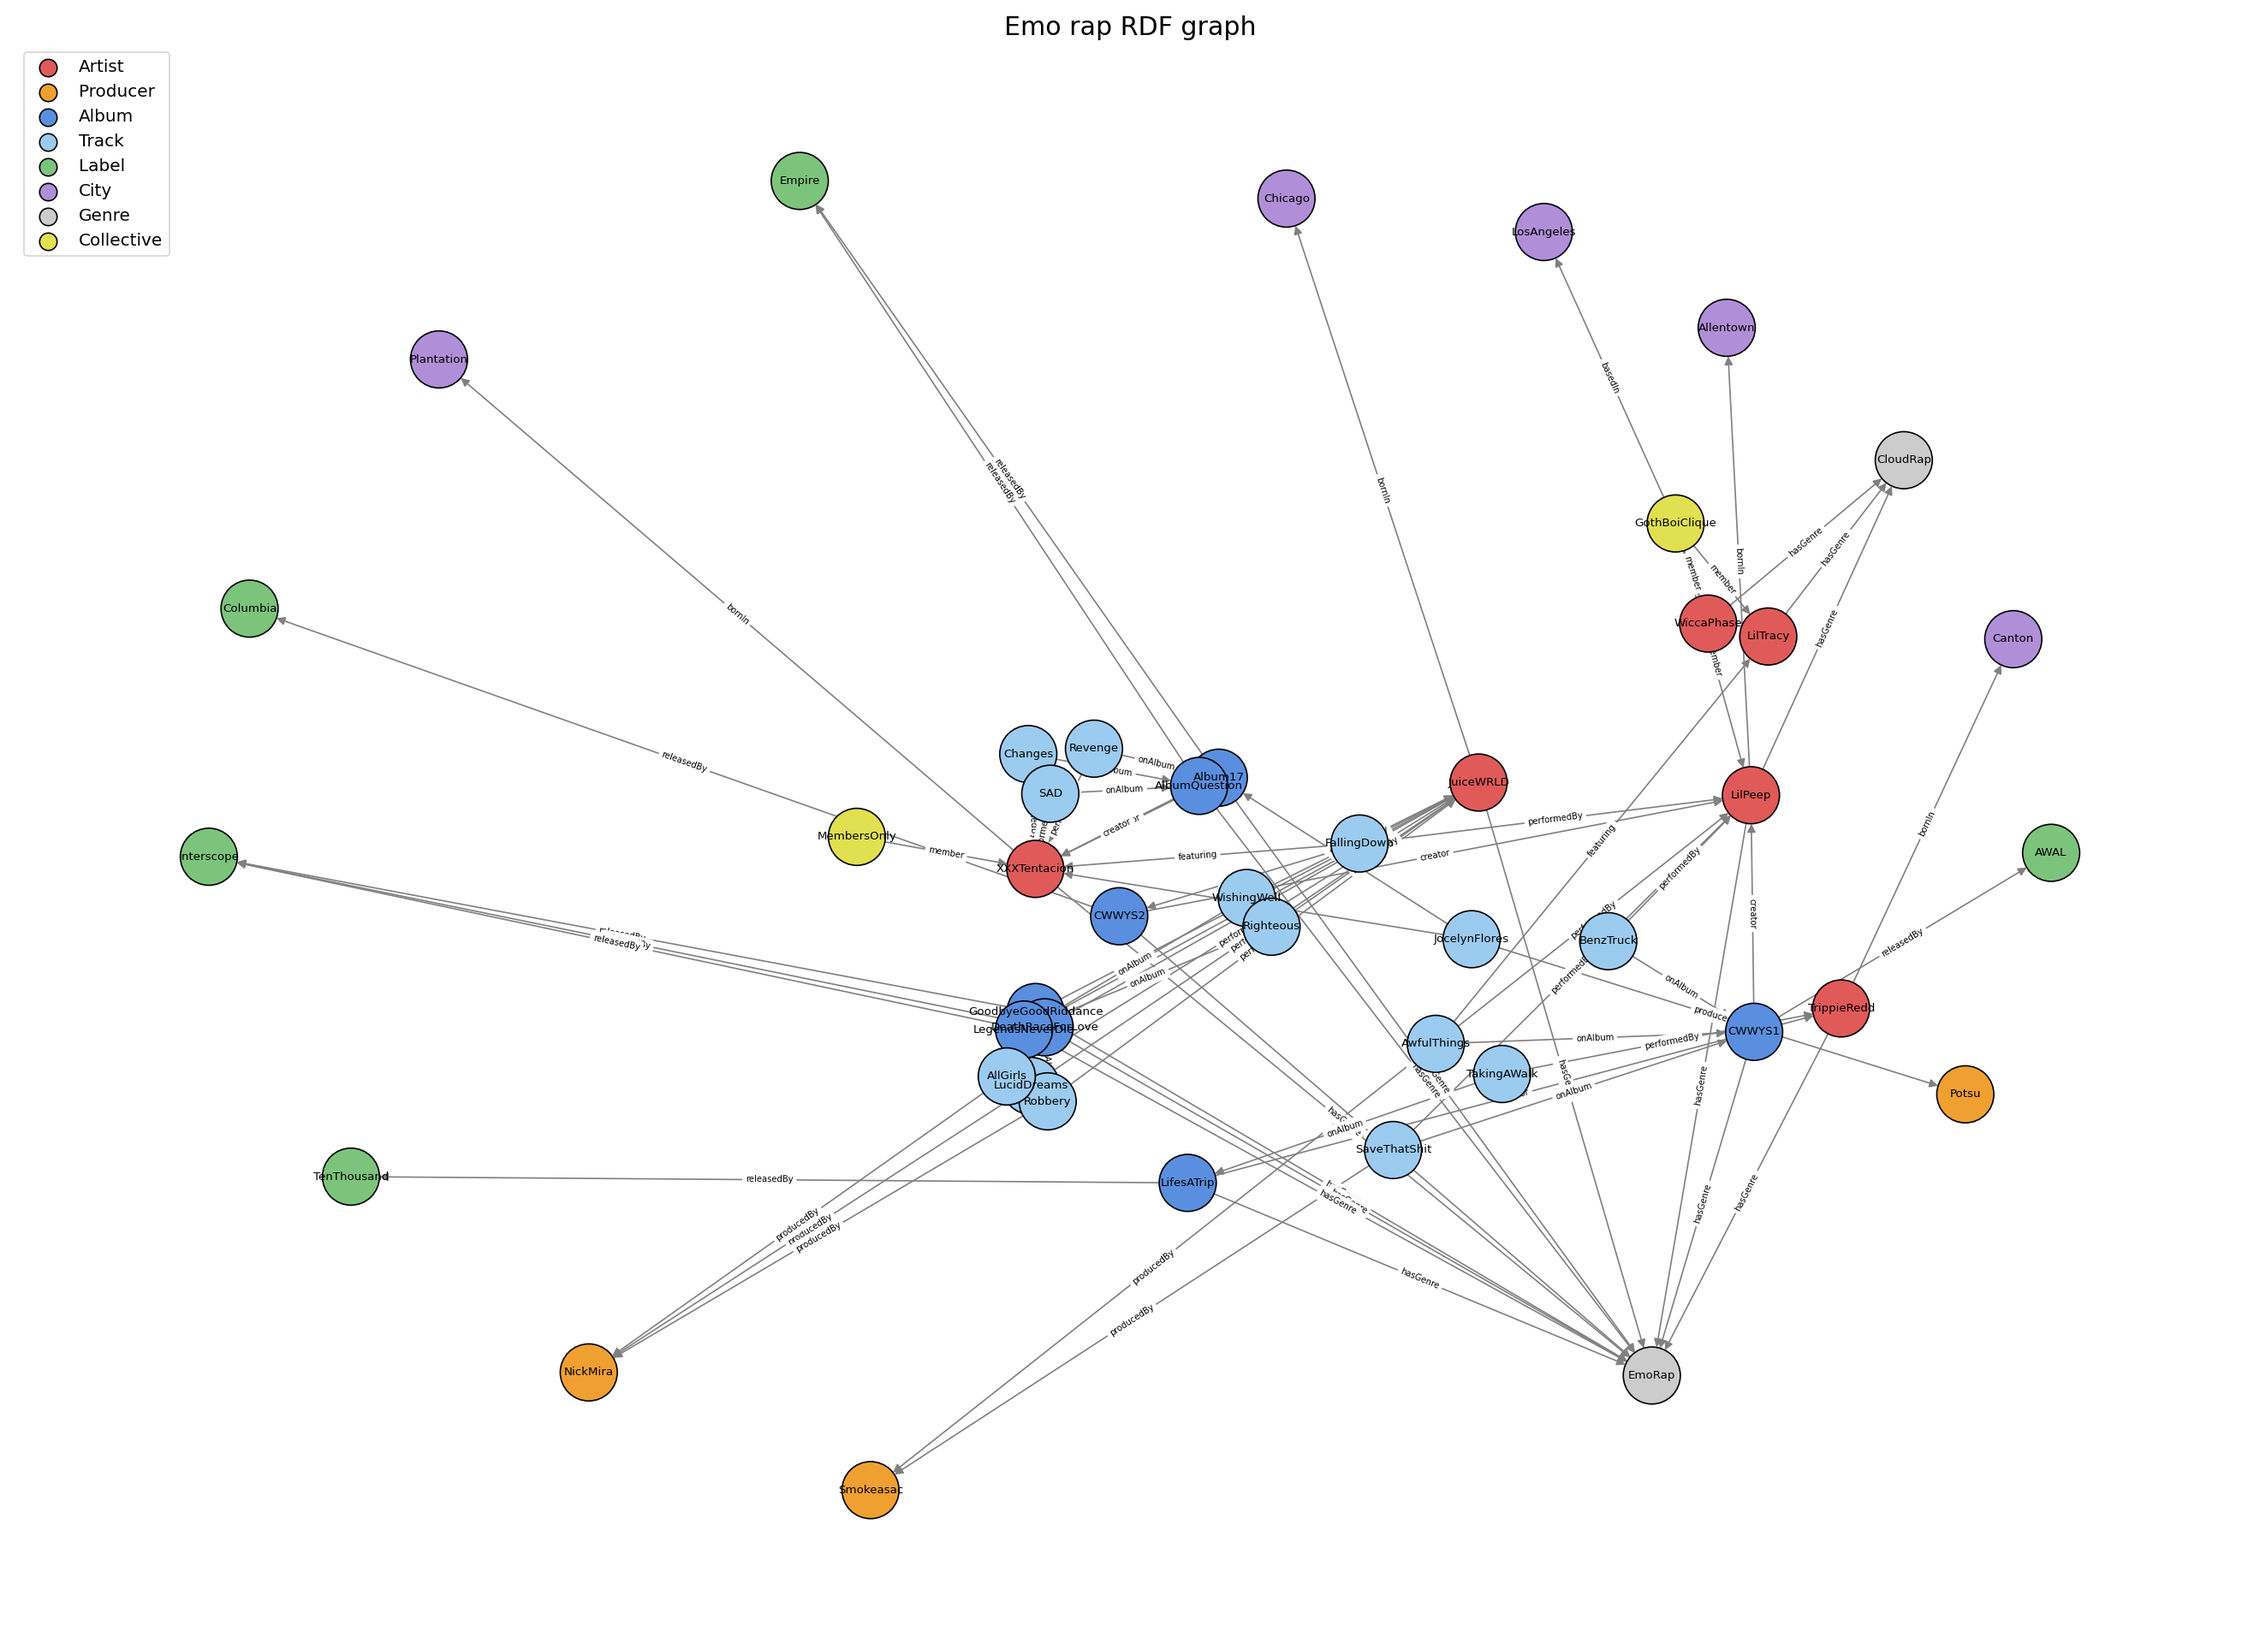
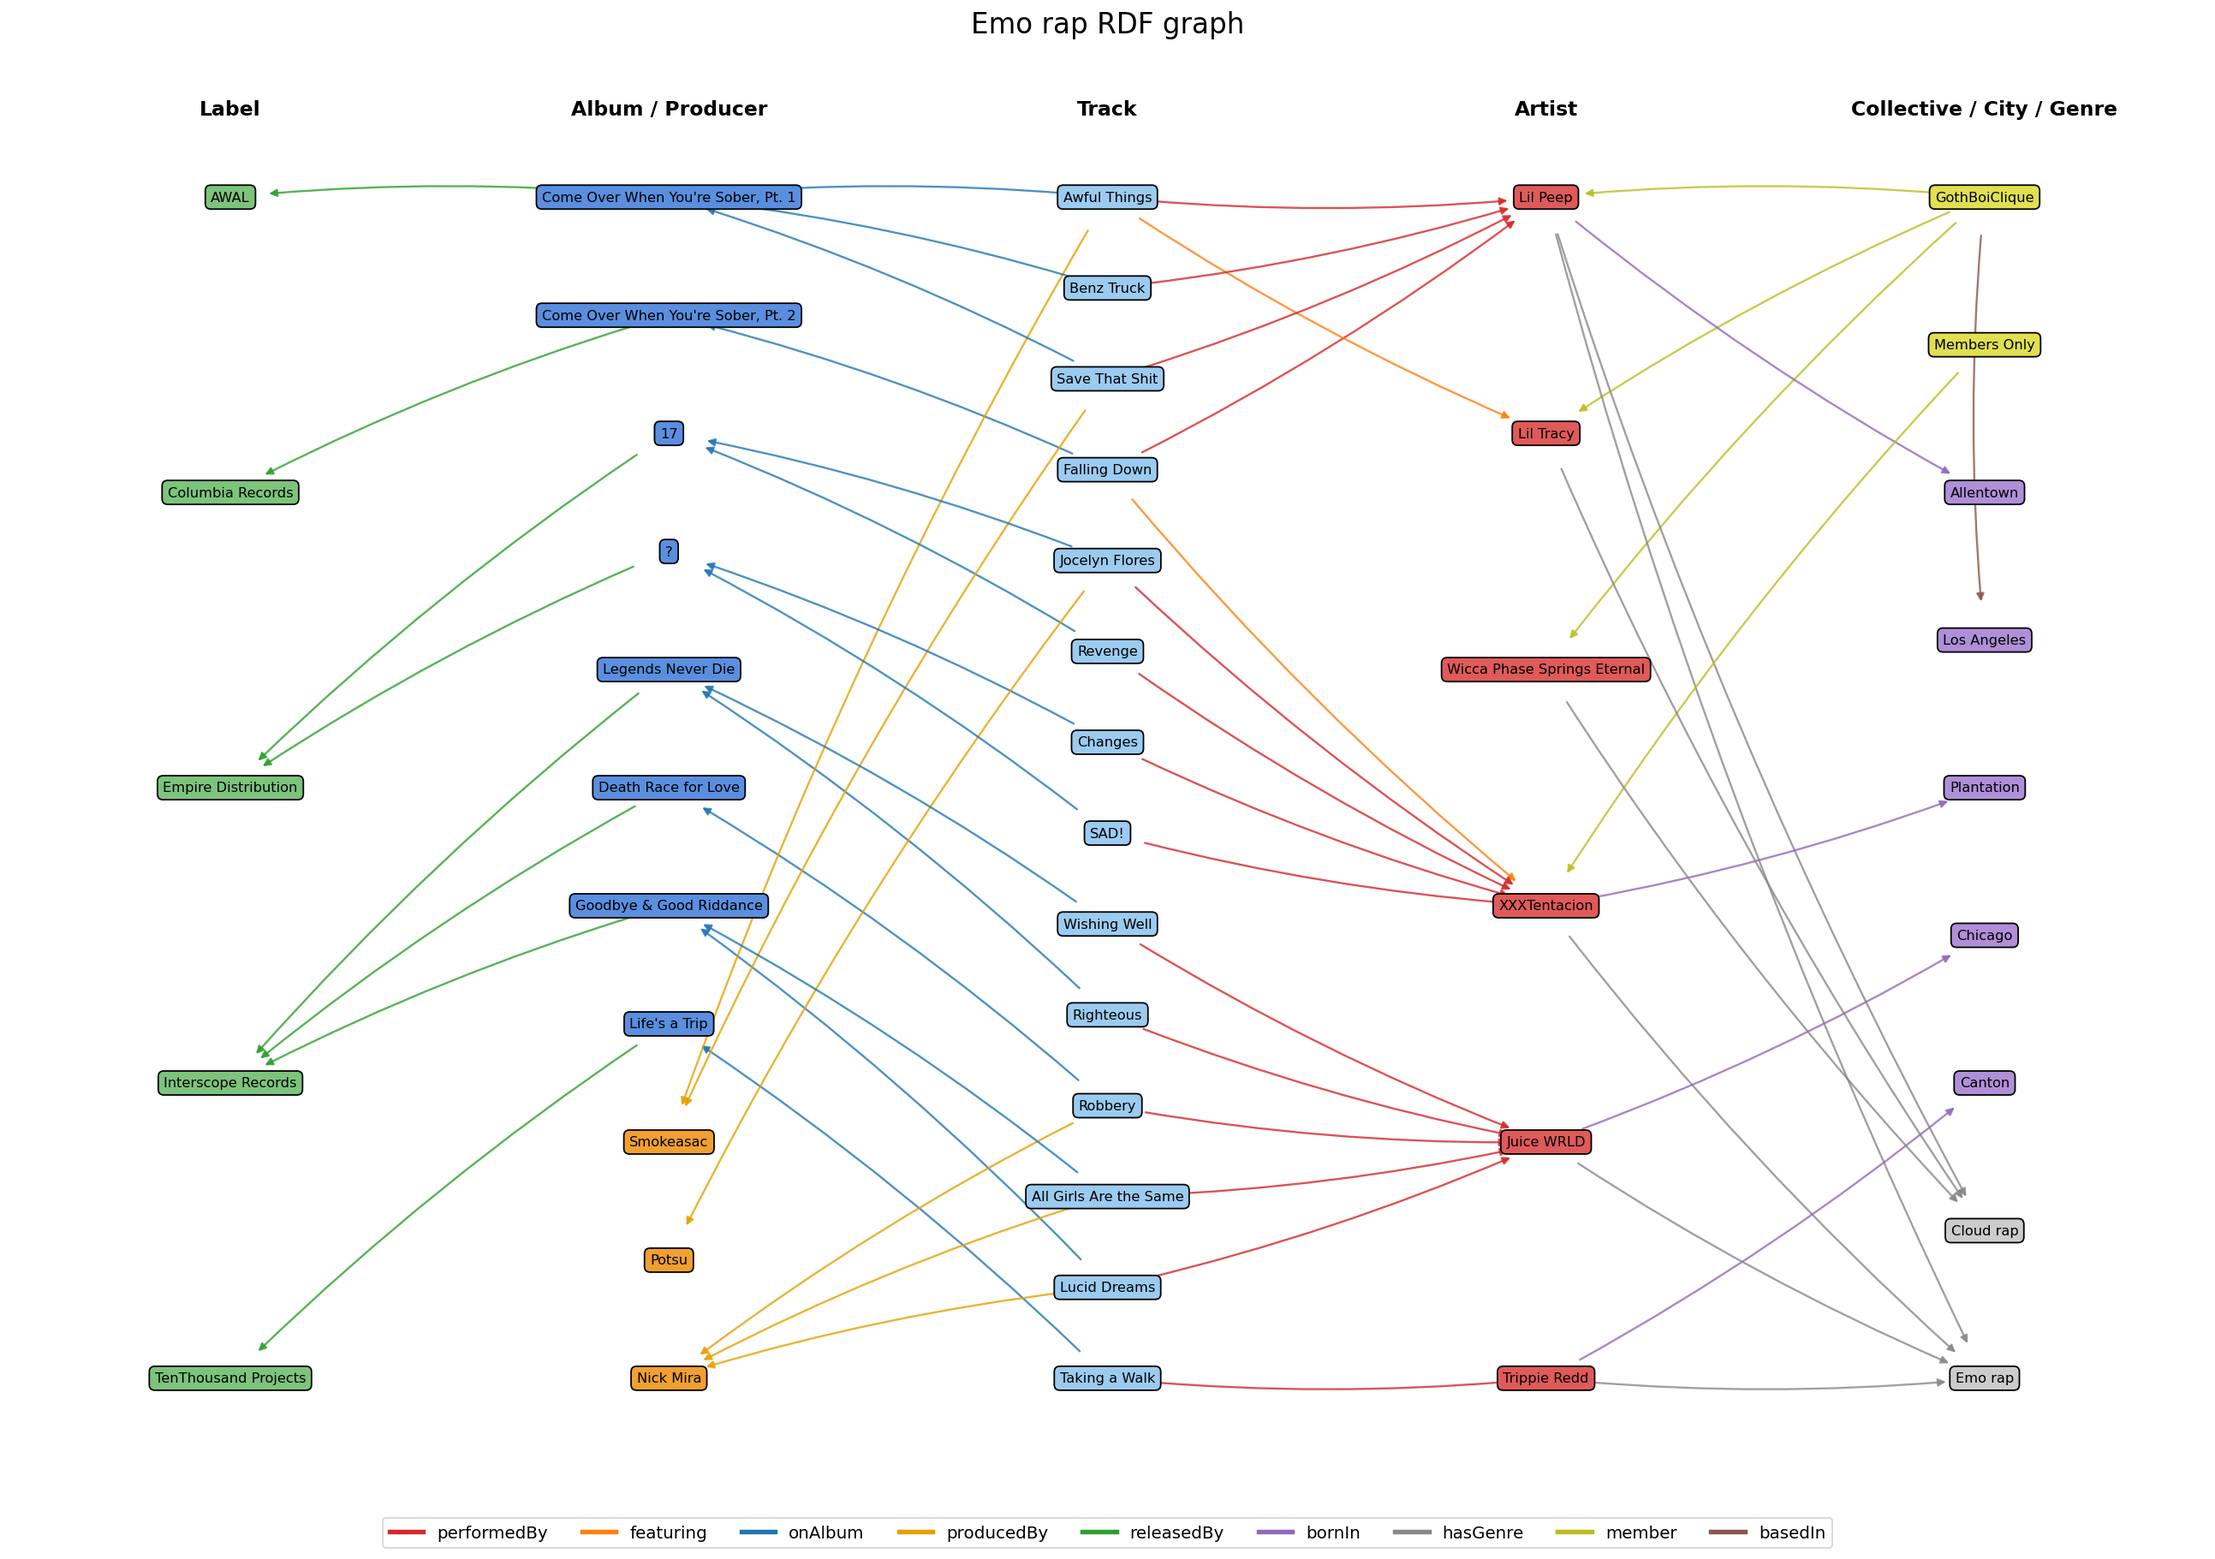
fixed graph

diff --git a/visualize.py b/visualize.py
@@ -1,54 +1,117 @@
 import networkx as nx
 import matplotlib.pyplot as plt
-from rdflib import Graph, Namespace, URIRef
-from rdflib.namespace import RDF, RDFS
+from matplotlib.lines import Line2D
+from rdflib import Graph, Namespace
+from rdflib.namespace import RDF, RDFS, FOAF, DCTERMS
 
 EX = Namespace("http://example.org/emorap/")
 
 g = Graph()
 g.parse("emo_rap_edited.ttl")
 
-colors = {
-    EX.Artist: "#e05a5a",
-    EX.Producer: "#f0a030",
-    EX.Album: "#5a8fe0",
-    EX.Track: "#9ccbf0",
+node_colors = {
     EX.Label: "#7cc47c",
+    EX.Album: "#5a8fe0",
+    EX.Producer: "#f0a030",
+    EX.Track: "#9ccbf0",
+    EX.Artist: "#e05a5a",
+    EX.Collective: "#e0e050",
     EX.City: "#b08fd8",
     EX.Genre: "#cccccc",
-    EX.Collective: "#e0e050",
 }
 
+# колір ребра = тип зв'язку (замість підписів на кожному ребрі)
+edge_colors = {
+    EX.performedBy: "#d62728",
+    EX.featuring: "#ff7f0e",
+    EX.onAlbum: "#1f77b4",
+    EX.producedBy: "#e6a000",
+    EX.releasedBy: "#2ca02c",
+    EX.bornIn: "#9467bd",
+    EX.hasGenre: "#888888",
+    FOAF.member: "#bcbd22",
+    EX.basedIn: "#8c564b",
+}
 
-def short(u):
-    return g.namespace_manager.normalizeUri(u).split(":")[-1]
+# колонки: x для кожного типу
+columns = {
+    EX.Label: 0, EX.Album: 1, EX.Producer: 1, EX.Track: 2,
+    EX.Artist: 3, EX.Collective: 4, EX.City: 4, EX.Genre: 4,
+}
 
+artist_order = ["LilPeep", "LilTracy", "WiccaPhase", "XXXTentacion", "JuiceWRLD", "TrippieRedd"]
+
+
+def name(u):
+    for p in (FOAF.name, DCTERMS.title, RDFS.label):
+        v = g.value(u, p)
+        if v:
+            return str(v)
+    return u.split("/")[-1]
+
+
+def artist_idx(u):
+    return artist_order.index(u.split("/")[-1])
+
+
+def nodes_of(cls):
+    return list(g.subjects(RDF.type, cls))
+
+
+# сортуємо вузли, щоб ребра менше перетинались
+artists = sorted(nodes_of(EX.Artist), key=artist_idx)
+albums = sorted(nodes_of(EX.Album), key=lambda a: (artist_idx(g.value(a, DCTERMS.creator)), str(g.value(a, EX.releasedBy))))
+tracks = sorted(nodes_of(EX.Track), key=lambda t: albums.index(g.value(t, EX.onAlbum)))
+labels = sorted(nodes_of(EX.Label), key=lambda l: min(albums.index(a) for a in g.subjects(EX.releasedBy, l)))
+producers = sorted(nodes_of(EX.Producer), key=lambda p: min(tracks.index(t) for t in g.subjects(EX.producedBy, p)))
+collectives = nodes_of(EX.Collective)
+cities = sorted(nodes_of(EX.City), key=lambda c: min([artist_idx(a) for a in g.subjects(EX.bornIn, c)] or [0]))
+genres = nodes_of(EX.Genre)
+
+col_nodes = {
+    0: labels,
+    1: albums + producers,
+    2: tracks,
+    3: artists,
+    4: collectives + cities + genres,
+}
+
+pos = {}
+for x, nodes in col_nodes.items():
+    n = len(nodes)
+    for i, u in enumerate(nodes):
+        pos[u] = (x * 3, 1 - i / max(n - 1, 1))  # рівномірно по висоті
 
 G = nx.DiGraph()
 for s, p, o in g:
-    # тільки зв'язки між сутностями, без rdf:type, літералів і схеми
-    if not isinstance(o, URIRef) or p in (RDF.type, RDFS.subClassOf, RDFS.domain, RDFS.range, RDFS.subPropertyOf):
-        continue
-    G.add_edge(short(s), short(o), label=short(p))
+    # creator і жанр альбомів не малюємо - вони дублюють зв'язки через треки
+    if p in edge_colors and s in pos and o in pos:
+        if p == EX.hasGenre and (s, RDF.type, EX.Album) in g:
+            continue
+        G.add_edge(s, o, color=edge_colors[p])
 
-node_colors = []
-for n in G.nodes:
-    t = g.value(EX[n], RDF.type)
-    node_colors.append(colors.get(t, "white"))
+plt.figure(figsize=(20, 14))
+nx.draw_networkx_edges(
+    G, pos, edge_color=[d["color"] for _, _, d in G.edges(data=True)],
+    arrows=True, arrowsize=10, width=1.3, alpha=0.8,
+    connectionstyle="arc3,rad=0.05", node_size=2500,
+)
+for u, (x, y) in pos.items():
+    cls = g.value(u, RDF.type)
+    plt.text(x, y, name(u), ha="center", va="center", fontsize=9,
+             bbox=dict(boxstyle="round,pad=0.4", fc=node_colors[cls], ec="black"))
 
-plt.figure(figsize=(22, 16))
-pos = nx.spring_layout(G, k=2.2, seed=42, iterations=500)
-nx.draw_networkx_nodes(G, pos, node_color=node_colors, node_size=1600, edgecolors="black")
-nx.draw_networkx_labels(G, pos, font_size=8)
-nx.draw_networkx_edges(G, pos, arrows=True, arrowsize=12, edge_color="gray", node_size=1600)
-nx.draw_networkx_edge_labels(G, pos, edge_labels=nx.get_edge_attributes(G, "label"), font_size=6)
+titles = ["Label", "Album / Producer", "Track", "Artist", "Collective / City / Genre"]
+for i, t in enumerate(titles):
+    plt.text(i * 3, 1.07, t, ha="center", fontsize=13, fontweight="bold")
 
-for cls, c in colors.items():
-    plt.scatter([], [], color=c, label=short(cls), s=150, edgecolors="black")
-plt.legend(loc="upper left", fontsize=12)
-plt.title("Emo rap RDF graph", fontsize=18)
+legend = [Line2D([0], [0], color=c, lw=3, label=p.split("/")[-1].split("#")[-1]) for p, c in edge_colors.items()]
+plt.legend(handles=legend, loc="lower center", ncol=9, fontsize=11, bbox_to_anchor=(0.5, -0.06))
+plt.title("Emo rap RDF graph", fontsize=18, pad=30)
+plt.xlim(-1.5, 13.5)
+plt.ylim(-0.08, 1.1)
 plt.axis("off")
 plt.tight_layout()
-plt.savefig("graph.png", dpi=120)
-print("вузлів:", G.number_of_nodes(), "ребер:", G.number_of_edges())
+plt.savefig("graph.png", dpi=130, bbox_inches="tight")
+print("вузлів:", len(pos), "ребер:", G.number_of_edges())
 plt.show()
